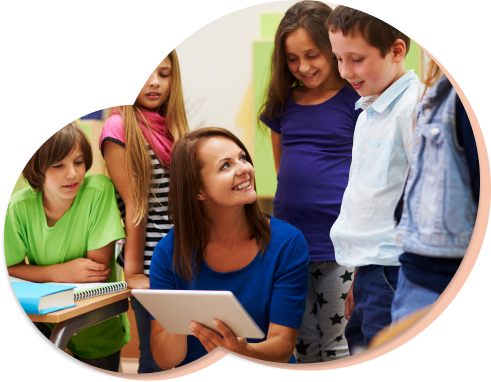
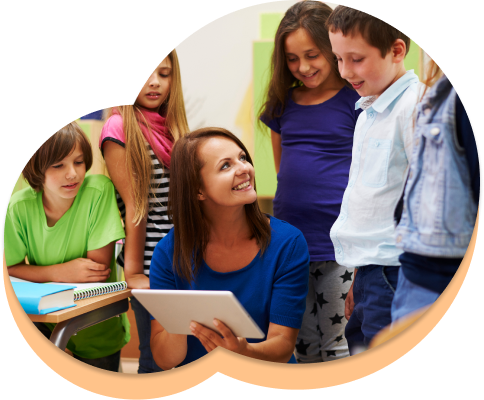
edits on html and css

diff --git a/index.html b/index.html
@@ -200,7 +200,7 @@
                 Et has minim elitr intellegat. Mea aeterno eleifend antiopam ad, nam no suscipit quaerendum.
               </p>
               <br>
-              <a href="" class="teacher-btn-1">Entra a far parte del team!</a>
+              <a href="" class="actor-btn-1">Entra a far parte del team!</a>
             </div>
             <!-- ======= Immagine ======= -->
             <div class="col-lg-6 order-1 order-lg-2" data-aos="fade-up" data-aos-delay="200">
@@ -213,142 +213,8 @@
       </div>
     </section><!-- End Attori Section -->
 
-    <!-- ======= Tabs Section ======= -->
-    <section id="tabs" class="tabs">
-      <div class="container" data-aos="fade-up">
-
-        <ul class="nav nav-tabs row d-flex">
-          <li class="nav-item col-3">
-            <a class="nav-link active show" data-bs-toggle="tab" data-bs-target="#tab-1">
-              <i class="ri-gps-line"></i>
-              <h4 class="d-none d-lg-block">Modi sit est dela pireda nest</h4>
-            </a>
-          </li>
-          <li class="nav-item col-3">
-            <a class="nav-link" data-bs-toggle="tab" data-bs-target="#tab-2">
-              <i class="ri-body-scan-line"></i>
-              <h4 class="d-none d-lg-block">Unde praesenti mara setra le</h4>
-            </a>
-          </li>
-          <li class="nav-item col-3">
-            <a class="nav-link" data-bs-toggle="tab" data-bs-target="#tab-3">
-              <i class="ri-sun-line"></i>
-              <h4 class="d-none d-lg-block">Pariatur explica nitro dela</h4>
-            </a>
-          </li>
-          <li class="nav-item col-3">
-            <a class="nav-link" data-bs-toggle="tab" data-bs-target="#tab-4">
-              <i class="ri-store-line"></i>
-              <h4 class="d-none d-lg-block">Nostrum qui dile node</h4>
-            </a>
-          </li>
-        </ul>
-
-        <div class="tab-content">
-          <div class="tab-pane active show" id="tab-1">
-            <div class="row">
-              <div class="col-lg-6 order-2 order-lg-1 mt-3 mt-lg-0" data-aos="fade-up" data-aos-delay="100">
-                <h3>Voluptatem dignissimos provident quasi corporis voluptates sit assumenda.</h3>
-                <p class="fst-italic">
-                  Lorem ipsum dolor sit amet, consectetur adipiscing elit, sed do eiusmod tempor incididunt ut labore et dolore
-                  magna aliqua.
-                </p>
-                <ul>
-                  <li><i class="ri-check-double-line"></i> Ullamco laboris nisi ut aliquip ex ea commodo consequat.</li>
-                  <li><i class="ri-check-double-line"></i> Duis aute irure dolor in reprehenderit in voluptate velit.</li>
-                  <li><i class="ri-check-double-line"></i> Ullamco laboris nisi ut aliquip ex ea commodo consequat. Duis aute irure dolor in reprehenderit in voluptate trideta storacalaperda mastiro dolore eu fugiat nulla pariatur.</li>
-                </ul>
-                <p>
-                  Ullamco laboris nisi ut aliquip ex ea commodo consequat. Duis aute irure dolor in reprehenderit in voluptate
-                  velit esse cillum dolore eu fugiat nulla pariatur. Excepteur sint occaecat cupidatat non proident, sunt in
-                  culpa qui officia deserunt mollit anim id est laborum
-                </p>
-              </div>
-              <div class="col-lg-6 order-1 order-lg-2 text-center" data-aos="fade-up" data-aos-delay="200">
-                <img src="assets/img/tabs-1.jpg" alt="" class="img-fluid">
-              </div>
-            </div>
-          </div>
-          <div class="tab-pane" id="tab-2">
-            <div class="row">
-              <div class="col-lg-6 order-2 order-lg-1 mt-3 mt-lg-0">
-                <h3>Neque exercitationem debitis soluta quos debitis quo mollitia officia est</h3>
-                <p>
-                  Ullamco laboris nisi ut aliquip ex ea commodo consequat. Duis aute irure dolor in reprehenderit in voluptate
-                  velit esse cillum dolore eu fugiat nulla pariatur. Excepteur sint occaecat cupidatat non proident, sunt in
-                  culpa qui officia deserunt mollit anim id est laborum
-                </p>
-                <p class="fst-italic">
-                  Lorem ipsum dolor sit amet, consectetur adipiscing elit, sed do eiusmod tempor incididunt ut labore et dolore
-                  magna aliqua.
-                </p>
-                <ul>
-                  <li><i class="ri-check-double-line"></i> Ullamco laboris nisi ut aliquip ex ea commodo consequat.</li>
-                  <li><i class="ri-check-double-line"></i> Duis aute irure dolor in reprehenderit in voluptate velit.</li>
-                  <li><i class="ri-check-double-line"></i> Provident mollitia neque rerum asperiores dolores quos qui a. Ipsum neque dolor voluptate nisi sed.</li>
-                  <li><i class="ri-check-double-line"></i> Ullamco laboris nisi ut aliquip ex ea commodo consequat. Duis aute irure dolor in reprehenderit in voluptate trideta storacalaperda mastiro dolore eu fugiat nulla pariatur.</li>
-                </ul>
-              </div>
-              <div class="col-lg-6 order-1 order-lg-2 text-center">
-                <img src="assets/img/tabs-2.jpg" alt="" class="img-fluid">
-              </div>
-            </div>
-          </div>
-          <div class="tab-pane" id="tab-3">
-            <div class="row">
-              <div class="col-lg-6 order-2 order-lg-1 mt-3 mt-lg-0">
-                <h3>Voluptatibus commodi ut accusamus ea repudiandae ut autem dolor ut assumenda</h3>
-                <p>
-                  Ullamco laboris nisi ut aliquip ex ea commodo consequat. Duis aute irure dolor in reprehenderit in voluptate
-                  velit esse cillum dolore eu fugiat nulla pariatur. Excepteur sint occaecat cupidatat non proident, sunt in
-                  culpa qui officia deserunt mollit anim id est laborum
-                </p>
-                <ul>
-                  <li><i class="ri-check-double-line"></i> Ullamco laboris nisi ut aliquip ex ea commodo consequat.</li>
-                  <li><i class="ri-check-double-line"></i> Duis aute irure dolor in reprehenderit in voluptate velit.</li>
-                  <li><i class="ri-check-double-line"></i> Provident mollitia neque rerum asperiores dolores quos qui a. Ipsum neque dolor voluptate nisi sed.</li>
-                </ul>
-                <p class="fst-italic">
-                  Lorem ipsum dolor sit amet, consectetur adipiscing elit, sed do eiusmod tempor incididunt ut labore et dolore
-                  magna aliqua.
-                </p>
-              </div>
-              <div class="col-lg-6 order-1 order-lg-2 text-center">
-                <img src="assets/img/tabs-3.jpg" alt="" class="img-fluid">
-              </div>
-            </div>
-          </div>
-          <div class="tab-pane" id="tab-4">
-            <div class="row">
-              <div class="col-lg-6 order-2 order-lg-1 mt-3 mt-lg-0">
-                <h3>Omnis fugiat ea explicabo sunt dolorum asperiores sequi inventore rerum</h3>
-                <p>
-                  Ullamco laboris nisi ut aliquip ex ea commodo consequat. Duis aute irure dolor in reprehenderit in voluptate
-                  velit esse cillum dolore eu fugiat nulla pariatur. Excepteur sint occaecat cupidatat non proident, sunt in
-                  culpa qui officia deserunt mollit anim id est laborum
-                </p>
-                <p class="fst-italic">
-                  Lorem ipsum dolor sit amet, consectetur adipiscing elit, sed do eiusmod tempor incididunt ut labore et dolore
-                  magna aliqua.
-                </p>
-                <ul>
-                  <li><i class="ri-check-double-line"></i> Ullamco laboris nisi ut aliquip ex ea commodo consequat.</li>
-                  <li><i class="ri-check-double-line"></i> Duis aute irure dolor in reprehenderit in voluptate velit.</li>
-                  <li><i class="ri-check-double-line"></i> Ullamco laboris nisi ut aliquip ex ea commodo consequat. Duis aute irure dolor in reprehenderit in voluptate trideta storacalaperda mastiro dolore eu fugiat nulla pariatur.</li>
-                </ul>
-              </div>
-              <div class="col-lg-6 order-1 order-lg-2 text-center">
-                <img src="assets/img/tabs-4.jpg" alt="" class="img-fluid">
-              </div>
-            </div>
-          </div>
-        </div>
-
-      </div>
-    </section><!-- End Tabs Section -->
-
     <!-- ======= Services Section ======= -->
-    <section id="services" class="services section-bg ">
+    <section id="services" class="services section-bg">
       <div class="container" data-aos="fade-up">
 
         <div class="section-title">

diff --git a/assets/css/style.css b/assets/css/style.css
@@ -5,6 +5,7 @@
 * License: https://bootstrapmade.com/license/
 */
 
+
 /*--------------------------------------------------------------
 # General
 --------------------------------------------------------------*/
@@ -26,6 +27,7 @@ a:hover {
 h1, h2, h3, h4, h5, h6 {
   font-family: "Nunito", sans-serif;
 }
+
 
 /*--------------------------------------------------------------
 # Back to top button
@@ -58,6 +60,7 @@ h1, h2, h3, h4, h5, h6 {
   opacity: 1;
 }
 --------------------------------------------------------------*/
+
 
 /*--------------------------------------------------------------
 # Disable aos animation delay on mobile devices
@@ -117,9 +120,8 @@ h1, h2, h3, h4, h5, h6 {
 }
 
 
-
 /*--------------------------------------------------------------
-# Get Startet Button
+# First button
 --------------------------------------------------------------*/
 .get-started-btn {
   margin-left: 30px;
@@ -434,6 +436,7 @@ h1, h2, h3, h4, h5, h6 {
   }
 }
 
+
 /*--------------------------------------------------------------
 # Sections General
 --------------------------------------------------------------*/
@@ -490,20 +493,20 @@ section {
 }
 
 .section-bg {
-  padding: 120px 0;
+  padding: 100px 0;
   color: #fff;
 }
 
-.section-bg:before {
+/*--.section-bg:before {
   content: "";
-  background: #FFC555;
+  background: #F5F5F5;
   position: absolute;
-  bottom: 20px;
+  bottom: 0px;
   top: 20px;
   left: 0;
   right: 0;
-  /*--transform: skewY(-3deg);--*/
-}
+  /*--transform: skewY(-3deg);
+}--*/
 
 /*--------------------------------------------------------------
 # Breadcrumbs
@@ -584,31 +587,30 @@ section {
 /*--------------------------------------------------------------
 # Insegnanti
 --------------------------------------------------------------*/
-.teacher .container {
+.teacher{
   width: 100%;
-  background: url("../img/insegnate-decoration.png") top center no-repeat;
+  background: url("../img/sfondo-insegnanti.png") top center no-repeat;
   background-size: cover;
   position: relative;
+}
+
+.teacher h2{
+  font-weight: 700;
+  color: #FF912A;
 }
 
 .teacher .content {
   padding: 30px 30px 30px 0;
 }
 
-.teacher .content h3 {
-  font-weight: 700;
-  font-size: 34px;
+.teacher p {
   margin-bottom: 30px;
-}
-
-.teacher .content p {
-  margin-bottom: 30px;
-  color: #000000;
+  color: #58595B;
 }
 
 .teacher-btn-1 {
-  background: #ffffff;
-  color: #373F41;
+  background: #10BDC4;
+  color: #ffffff;
   border-radius: 20px;
   padding: 8px 25px;
   white-space: nowrap;
@@ -625,8 +627,8 @@ section {
 
 .teacher-btn-2 {
   margin-left: 10px;
-  background: #ffffff;
-  color: #373F41;
+  background: #FFB46C;
+  color: #ffffff;
   border-radius: 20px;
   padding: 8px 25px;
   white-space: nowrap;
@@ -651,9 +653,32 @@ section {
 # Actors
 --------------------------------------------------------------*/
 .actor {
-  content: "";
-  background: #89C7CA;
+  width: 100%;
+  background: url("../img/sfondo-attori.png") top center no-repeat;
+  background-size: cover;
+  position: relative;
+  z-index: 1;
+  padding: 100px 0;
 }
+.actor .content {
+  padding: 30px 30px 30px 0;
+}
+.actor-btn-1 {
+  background: #ffffff;
+  color: #373F41;
+  border-radius: 20px;
+  padding: 8px 25px;
+  white-space: nowrap;
+  transition: 0.3s;
+  font-size: 15px;
+  font-weight: 600;
+  display: inline-block;
+}
+.actor-btn-1:hover {
+  background: #373F41;
+  color: #fff;
+}
+
 /*--------------------------------------------------------------
 # Counts
 --------------------------------------------------------------*/
